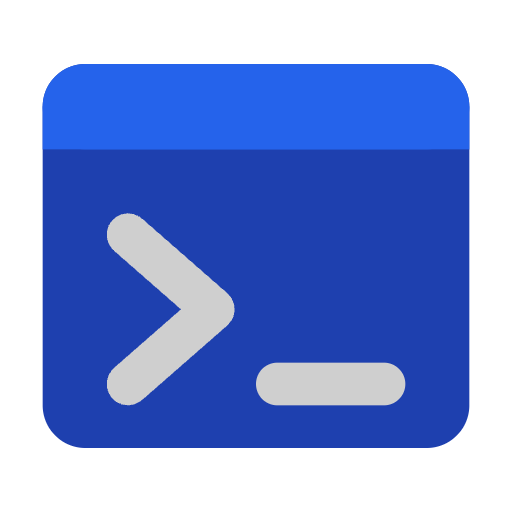
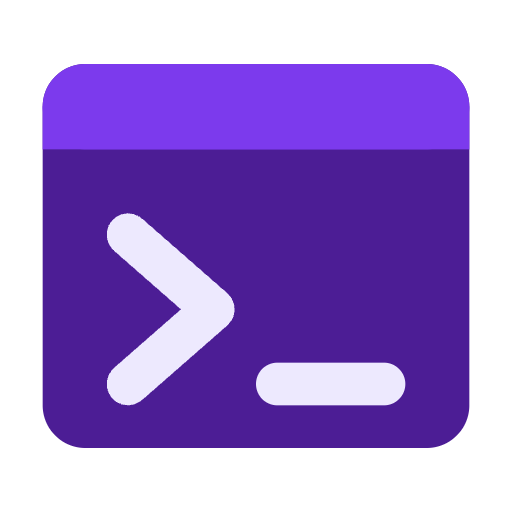
Refactor to semantic color system with app-* CSS variables
- Added new CSS variables: app-primary-hover, app-primary-light, app-highlight
- Replaced all hardcoded violet-* classes with semantic app-* classes
- Components now use bg-app-primary, text-app-text-secondary, etc.
- Added dashboard README.md with complete color reference table
- Changing colors now only requires updating globals.css

Semantic color mapping:
- app-primary: main interactive elements (violet-600/400)
- app-primary-hover: hover states (violet-700/500)
- app-accent: emphasis elements (violet-800/600)
- app-highlight: subtle backgrounds (violet-50/custom dark)
- app-text-secondary: secondary text (violet-700/300)

prompt: Would you like me to refactor all the hardcoded violet-* classes to use these semantic app-specific classes? Yes, please do. Which colours did you choose for dark mode? and then add that colour table to the README.md file

diff --git a/packages/dashboard/src/components/layout/mobile-drawer.tsx b/packages/dashboard/src/components/layout/mobile-drawer.tsx
@@ -85,10 +85,7 @@ export function MobileDrawer({
           )}
         >
           <div className="flex items-center gap-2">
-            <AppIcon
-              className="text-violet-600 dark:text-violet-400"
-              size={32}
-            />
+            <AppIcon size={32} />
             <span
               className={clsx(
                 'text-xl font-bold text-gray-900 dark:text-white'
@@ -128,8 +125,8 @@ export function MobileDrawer({
                   'flex items-center gap-3 px-3 py-3 text-sm',
                   'font-medium rounded-lg transition-colors',
                   isActive
-                    ? 'bg-violet-50 text-violet-700 dark:bg-violet-900/20 ' +
-                      'dark:text-violet-400'
+                    ? 'bg-app-highlight text-app-text-secondary ' +
+                      'dark:bg-app-highlight-dark dark:text-app-primary-dark'
                     : 'text-gray-700 hover:bg-gray-100 dark:text-gray-300 ' +
                       'dark:hover:bg-gray-700'
                 )}
@@ -138,7 +135,7 @@ export function MobileDrawer({
                   className={clsx(
                     'h-5 w-5 flex-shrink-0',
                     isActive
-                      ? 'text-violet-600 dark:text-violet-400'
+                      ? 'text-app-primary dark:text-app-primary-dark'
                       : 'text-gray-400 dark:text-gray-500'
                   )}
                 />
@@ -146,9 +143,9 @@ export function MobileDrawer({
                 {item.badge && (
                   <span
                     className={clsx(
-                      'ml-auto rounded-full bg-violet-100',
-                      'dark:bg-violet-900/20 px-2 py-0.5 text-xs',
-                      'font-medium text-violet-700 dark:text-violet-400'
+                      'ml-auto rounded-full bg-app-primary-light',
+                      'dark:bg-app-highlight-dark px-2 py-0.5 text-xs',
+                      'font-medium text-app-text-secondary dark:text-app-primary-dark'
                     )}
                   >
                     {item.badge}
@@ -173,8 +170,8 @@ export function MobileDrawer({
               'flex items-center gap-3 px-3 py-3 text-sm',
               'font-medium rounded-lg transition-colors',
               pathname.startsWith(settingsItem.href)
-                ? 'bg-violet-50 text-violet-700 dark:bg-violet-900/20 ' +
-                  'dark:text-violet-400'
+                ? 'bg-app-highlight text-app-text-secondary ' +
+                  'dark:bg-app-highlight-dark dark:text-app-primary-dark'
                 : 'text-gray-700 hover:bg-gray-100 dark:text-gray-300 ' +
                   'dark:hover:bg-gray-700'
             )}
@@ -183,7 +180,7 @@ export function MobileDrawer({
               className={clsx(
                 'h-5 w-5 flex-shrink-0',
                 pathname.startsWith(settingsItem.href)
-                  ? 'text-violet-600 dark:text-violet-400'
+                  ? 'text-app-primary dark:text-app-primary-dark'
                   : 'text-gray-400 dark:text-gray-500'
               )}
             />

diff --git a/packages/dashboard/src/components/auth/login-form.tsx b/packages/dashboard/src/components/auth/login-form.tsx
@@ -140,8 +140,8 @@ export function LoginForm(): React.JSX.Element {
   return (
     <div className="bg-white dark:bg-gray-800 shadow rounded-lg p-6">
       {returnUrl && (
-        <div className="mb-4 p-3 bg-violet-50 dark:bg-violet-900/20 rounded-lg">
-          <p className="text-sm text-violet-600 dark:text-violet-400">
+        <div className="mb-4 p-3 bg-app-highlight dark:bg-app-highlight-dark rounded-lg">
+          <p className="text-sm text-app-primary dark:text-app-primary-dark">
             Your session has expired. You&apos;ll be redirected after signing
             in.
           </p>
@@ -202,8 +202,8 @@ export function LoginForm(): React.JSX.Element {
         ) : (
           // MFA verification form
           <>
-            <div className="bg-violet-50 dark:bg-violet-900/20 p-4 rounded-lg">
-              <p className="text-sm text-violet-600 dark:text-violet-400">
+            <div className="bg-app-highlight dark:bg-app-highlight-dark p-4 rounded-lg">
+              <p className="text-sm text-app-primary dark:text-app-primary-dark">
                 Multi-factor authentication is enabled for your account.
               </p>
             </div>
@@ -228,11 +228,11 @@ export function LoginForm(): React.JSX.Element {
                       maxLength={1}
                       className="block w-[52px] h-[52px] text-center border-2
                                border-gray-300 rounded-lg text-xl font-medium
-                               focus:border-violet-500 focus:ring-2
-                               focus:ring-violet-200 focus:outline-none
+                               focus:border-app-primary focus:ring-2
+                               focus:ring-app-border focus:outline-none
                                dark:bg-gray-800 dark:border-gray-600
-                               dark:text-white dark:focus:border-violet-400
-                               dark:focus:ring-violet-800"
+                               dark:text-white dark:focus:border-app-primary-dark
+                               dark:focus:ring-app-border-dark"
                       value={mfaToken[index] || ''}
                       onChange={(e) => {
                         const value = e.target.value.replace(/[^0-9]/g, '')
@@ -352,7 +352,7 @@ export function LoginForm(): React.JSX.Element {
         <div className="space-y-3">
           <Button
             type="submit"
-            className="w-full bg-violet-600 hover:bg-violet-700 text-white"
+            className="w-full bg-app-primary hover:bg-app-primary-hover text-white"
             disabled={isLoading
               || (mfaRequired && !useBackupCode && !mfaToken.trim())
               || (mfaRequired && useBackupCode && !backupCode.trim())}

diff --git a/packages/dashboard/src/components/layout/sidebar.tsx b/packages/dashboard/src/components/layout/sidebar.tsx
@@ -98,8 +98,8 @@ export function Sidebar(): React.JSX.Element {
                 'flex items-center gap-3 px-3 py-2 text-sm',
                 'font-medium rounded-lg transition-colors',
                 isActive
-                  ? 'bg-violet-50 text-violet-700 dark:bg-violet-900/20 ' +
-                    'dark:text-violet-400'
+                  ? 'bg-app-highlight text-app-text-secondary ' +
+                    'dark:bg-app-highlight-dark dark:text-app-primary-dark'
                   : 'text-gray-700 hover:bg-gray-100 dark:text-gray-300 ' +
                     'dark:hover:bg-gray-700'
               )}
@@ -114,7 +114,7 @@ export function Sidebar(): React.JSX.Element {
                   className={clsx(
                     'h-5 w-5 flex-shrink-0',
                     isActive
-                      ? 'text-violet-600 dark:text-violet-400'
+                      ? 'text-app-primary dark:text-app-primary-dark'
                       : 'text-gray-400 dark:text-gray-500'
                   )}
                 />
@@ -127,9 +127,9 @@ export function Sidebar(): React.JSX.Element {
               {item.badge && !isCollapsed && (
                 <span
                   className={clsx(
-                    'ml-auto rounded-full bg-violet-100',
-                    'dark:bg-violet-900/20 px-2 py-0.5 text-xs',
-                    'font-medium text-violet-700 dark:text-violet-400'
+                    'ml-auto rounded-full bg-app-primary-light',
+                    'dark:bg-app-highlight-dark px-2 py-0.5 text-xs',
+                    'font-medium text-app-text-secondary dark:text-app-primary-dark'
                   )}
                 >
                   {item.badge}
@@ -148,8 +148,8 @@ export function Sidebar(): React.JSX.Element {
             'flex items-center gap-3 px-3 py-2 text-sm',
             'font-medium rounded-lg transition-colors',
             pathname.startsWith(settingsItem.href)
-              ? 'bg-violet-50 text-violet-700 dark:bg-violet-900/20 ' +
-                'dark:text-violet-400'
+              ? 'bg-app-highlight text-app-text-secondary ' +
+                'dark:bg-app-highlight-dark dark:text-app-primary-dark'
               : 'text-gray-700 hover:bg-gray-100 dark:text-gray-300 ' +
                 'dark:hover:bg-gray-700'
           )}
@@ -164,7 +164,7 @@ export function Sidebar(): React.JSX.Element {
               className={clsx(
                 'h-5 w-5 flex-shrink-0',
                 pathname.startsWith(settingsItem.href)
-                  ? 'text-violet-600 dark:text-violet-400'
+                  ? 'text-app-primary dark:text-app-primary-dark'
                   : 'text-gray-400 dark:text-gray-500'
               )}
             />

diff --git a/packages/dashboard/src/app/globals.css b/packages/dashboard/src/app/globals.css
@@ -25,6 +25,8 @@
 
   /* Light mode colors */
   --color-app-primary: #7c3aed;        /* violet-600 */
+  --color-app-primary-hover: #6d28d9;  /* violet-700 */
+  --color-app-primary-light: #ede9fe;  /* violet-100 */
   --color-app-secondary: #64748b;      /* slate-500 */
   --color-app-accent: #5b21b6;         /* violet-800 */
   --color-app-success: #10b981;        /* emerald-500 */
@@ -33,12 +35,15 @@
   --color-app-background: #faf5ff;     /* violet-50 */
   --color-app-surface: #ffffff;        /* white */
   --color-app-border: #ddd6fe;         /* violet-200 */
+  --color-app-highlight: #f5f3ff;      /* violet-50 */
   --color-app-text-primary: #1e293b;   /* slate-800 */
   --color-app-text-secondary: #6d28d9; /* violet-700 */
   --color-app-text-muted: #64748b;     /* slate-500 */
 
   /* Dark mode colors */
   --color-app-primary-dark: #a78bfa;   /* violet-400 */
+  --color-app-primary-hover-dark: #8b5cf6; /* violet-500 */
+  --color-app-primary-light-dark: #4c1d95; /* violet-900 */
   --color-app-secondary-dark: #64748b; /* slate-500 */
   --color-app-accent-dark: #7c3aed;    /* violet-600 */
   --color-app-success-dark: #34d399;   /* emerald-400 */
@@ -47,6 +52,7 @@
   --color-app-background-dark: #2e1065; /* violet-950 */
   --color-app-surface-dark: #4c1d95;   /* violet-900 */
   --color-app-border-dark: #6d28d9;    /* violet-700 */
+  --color-app-highlight-dark: #3b1a6d; /* violet-900/50 approx */
   --color-app-text-primary-dark: #ede9fe; /* violet-100 */
   --color-app-text-secondary-dark: #c4b5fd; /* violet-300 */
   --color-app-text-muted-dark: #a78bfa; /* violet-400 */

diff --git a/packages/dashboard/src/app/login/page-client.tsx b/packages/dashboard/src/app/login/page-client.tsx
@@ -13,7 +13,7 @@ function LoginFormWrapper(): ReactElement {
       <div className="bg-white dark:bg-gray-800 shadow rounded-lg p-6">
         <div className="flex items-center justify-center py-8">
           <div className="animate-spin rounded-full h-8 w-8 border-b-2
-            border-violet-600"></div>
+            border-app-primary"></div>
         </div>
       </div>
     }>
@@ -50,7 +50,7 @@ export default function LoginPageClient(): ReactElement {
             Don&apos;t have an account?{' '}
             <a
               href="/signup"
-              className="text-violet-600 dark:text-violet-400 hover:underline
+              className="text-app-primary dark:text-app-primary-dark hover:underline
                 font-medium"
             >
               Sign up
@@ -59,7 +59,7 @@ export default function LoginPageClient(): ReactElement {
           <p className="text-sm text-gray-600 dark:text-gray-400">
             <a
               href="/forgot-password"
-              className="text-violet-600 dark:text-violet-400 hover:underline"
+              className="text-app-primary dark:text-app-primary-dark hover:underline"
             >
               Forgot your password?
             </a>

diff --git a/packages/dashboard/src/components/ui/checkbox.tsx b/packages/dashboard/src/components/ui/checkbox.tsx
@@ -24,10 +24,10 @@ export const Checkbox = forwardRef<HTMLInputElement, CheckboxProps>(
       <input
         type="checkbox"
         className={clsx(
-          'shrink-0 mt-0.5 border-gray-200 rounded text-violet-600',
-          'focus:ring-violet-500 disabled:opacity-50 disabled:pointer-events-none',
-          'dark:bg-gray-800 dark:border-gray-700 dark:checked:bg-violet-500',
-          'dark:checked:border-violet-500 dark:focus:ring-offset-gray-800',
+          'shrink-0 mt-0.5 border-gray-200 rounded text-app-primary',
+          'focus:ring-app-primary disabled:opacity-50 disabled:pointer-events-none',
+          'dark:bg-gray-800 dark:border-gray-700 dark:checked:bg-app-primary-dark',
+          'dark:checked:border-app-primary-dark dark:focus:ring-offset-gray-800',
           className
         )}
         checked={checked}

diff --git a/packages/dashboard/src/components/ui/empty-state.tsx b/packages/dashboard/src/components/ui/empty-state.tsx
@@ -35,7 +35,7 @@ export function EmptyState({
       <p className="text-sm text-gray-500 mb-6 text-center max-w-sm">{description}</p>
       <button
         onClick={onAction}
-        className="inline-flex items-center gap-2 px-4 py-2 bg-violet-600 text-white text-sm font-medium rounded-md hover:bg-violet-700 focus:outline-none focus:ring-2 focus:ring-offset-2 focus:ring-violet-500 transition-colors"
+        className="inline-flex items-center gap-2 px-4 py-2 bg-app-primary text-white text-sm font-medium rounded-md hover:bg-app-primary-hover focus:outline-none focus:ring-2 focus:ring-offset-2 focus:ring-app-primary transition-colors"
       >
         {ActionIcon ? (
           <ActionIcon className="h-4 w-4" />

diff --git a/packages/dashboard/src/components/ui/modal.tsx b/packages/dashboard/src/components/ui/modal.tsx
@@ -142,14 +142,14 @@ export function AlertModal({
   cancelText
 }: AlertModalProps): React.JSX.Element {
   const typeColors = {
-    info: 'text-violet-600 dark:text-violet-400',
+    info: 'text-app-primary dark:text-app-primary-dark',
     warning: 'text-yellow-600 dark:text-yellow-400',
     error: 'text-red-600 dark:text-red-400',
     success: 'text-green-600 dark:text-green-400'
   }
 
   const typeBackgrounds = {
-    info: 'bg-violet-50 dark:bg-violet-900/20',
+    info: 'bg-app-highlight dark:bg-app-highlight-dark',
     warning: 'bg-yellow-50 dark:bg-yellow-900/20',
     error: 'bg-red-50 dark:bg-red-900/20',
     success: 'bg-green-50 dark:bg-green-900/20'

diff --git a/packages/dashboard/src/components/ui/toast.tsx b/packages/dashboard/src/components/ui/toast.tsx
@@ -152,8 +152,9 @@ export function ToastItem({
       + 'dark:bg-red-900/50 dark:border-red-800 dark:text-red-200',
     warning: 'bg-yellow-50 border-yellow-200 text-yellow-800 '
       + 'dark:bg-yellow-900/50 dark:border-yellow-800 dark:text-yellow-200',
-    info: 'bg-violet-50 border-violet-200 text-violet-800 '
-      + 'dark:bg-violet-900/50 dark:border-violet-800 dark:text-violet-200'
+    info: 'bg-app-highlight border-app-border text-app-accent '
+      + 'dark:bg-app-highlight-dark dark:border-app-border-dark ' +
+      'dark:text-app-text-primary-dark'
   }
 
   const Icon = icons[toast.type] || Info

diff --git a/packages/dashboard/src/components/ui/input.tsx b/packages/dashboard/src/components/ui/input.tsx
@@ -22,7 +22,7 @@ export const Input = React.forwardRef<HTMLInputElement, InputProps>(
           className={clsx(
             'block w-full px-3 py-2 border rounded-lg shadow-sm ' +
             'placeholder-gray-400 focus:outline-none focus:ring-2 ' +
-            'focus:ring-violet-500 focus:border-violet-500 sm:text-sm',
+            'focus:ring-app-primary focus:border-app-primary sm:text-sm',
             error
               ? 'border-red-300 text-red-900 placeholder-red-300 ' +
                 'focus:ring-red-500 focus:border-red-500'

diff --git a/packages/dashboard/src/app/(dashboard)/sessions/page.tsx b/packages/dashboard/src/app/(dashboard)/sessions/page.tsx
@@ -166,8 +166,8 @@ export default function SessionsPage(): React.JSX.Element {
           onClick={(e) => e.stopPropagation()}>
           <button
             onClick={() => router.push(`/sessions/${row.original.id}`)}
-            className="p-1 text-gray-400 hover:text-violet-600
-              dark:hover:text-violet-400"
+            className="p-1 text-gray-400 hover:text-app-primary
+              dark:hover:text-app-primary-dark"
             title="View session"
           >
             <Eye className="h-4 w-4" />

diff --git a/packages/dashboard/src/components/ui/button.tsx b/packages/dashboard/src/components/ui/button.tsx
@@ -32,7 +32,8 @@ export function Button({
     'focus:ring-offset-2 disabled:opacity-50 disabled:cursor-not-allowed'
 
   const variantClasses = {
-    primary: 'bg-violet-600 text-white hover:bg-violet-700 focus:ring-violet-500',
+    primary: 'bg-app-primary text-white hover:bg-app-primary-hover ' +
+      'focus:ring-app-primary',
     secondary:
       'bg-gray-600 text-white hover:bg-gray-700 focus:ring-gray-500',
     danger: 'bg-red-600 text-white hover:bg-red-700 focus:ring-red-500',
